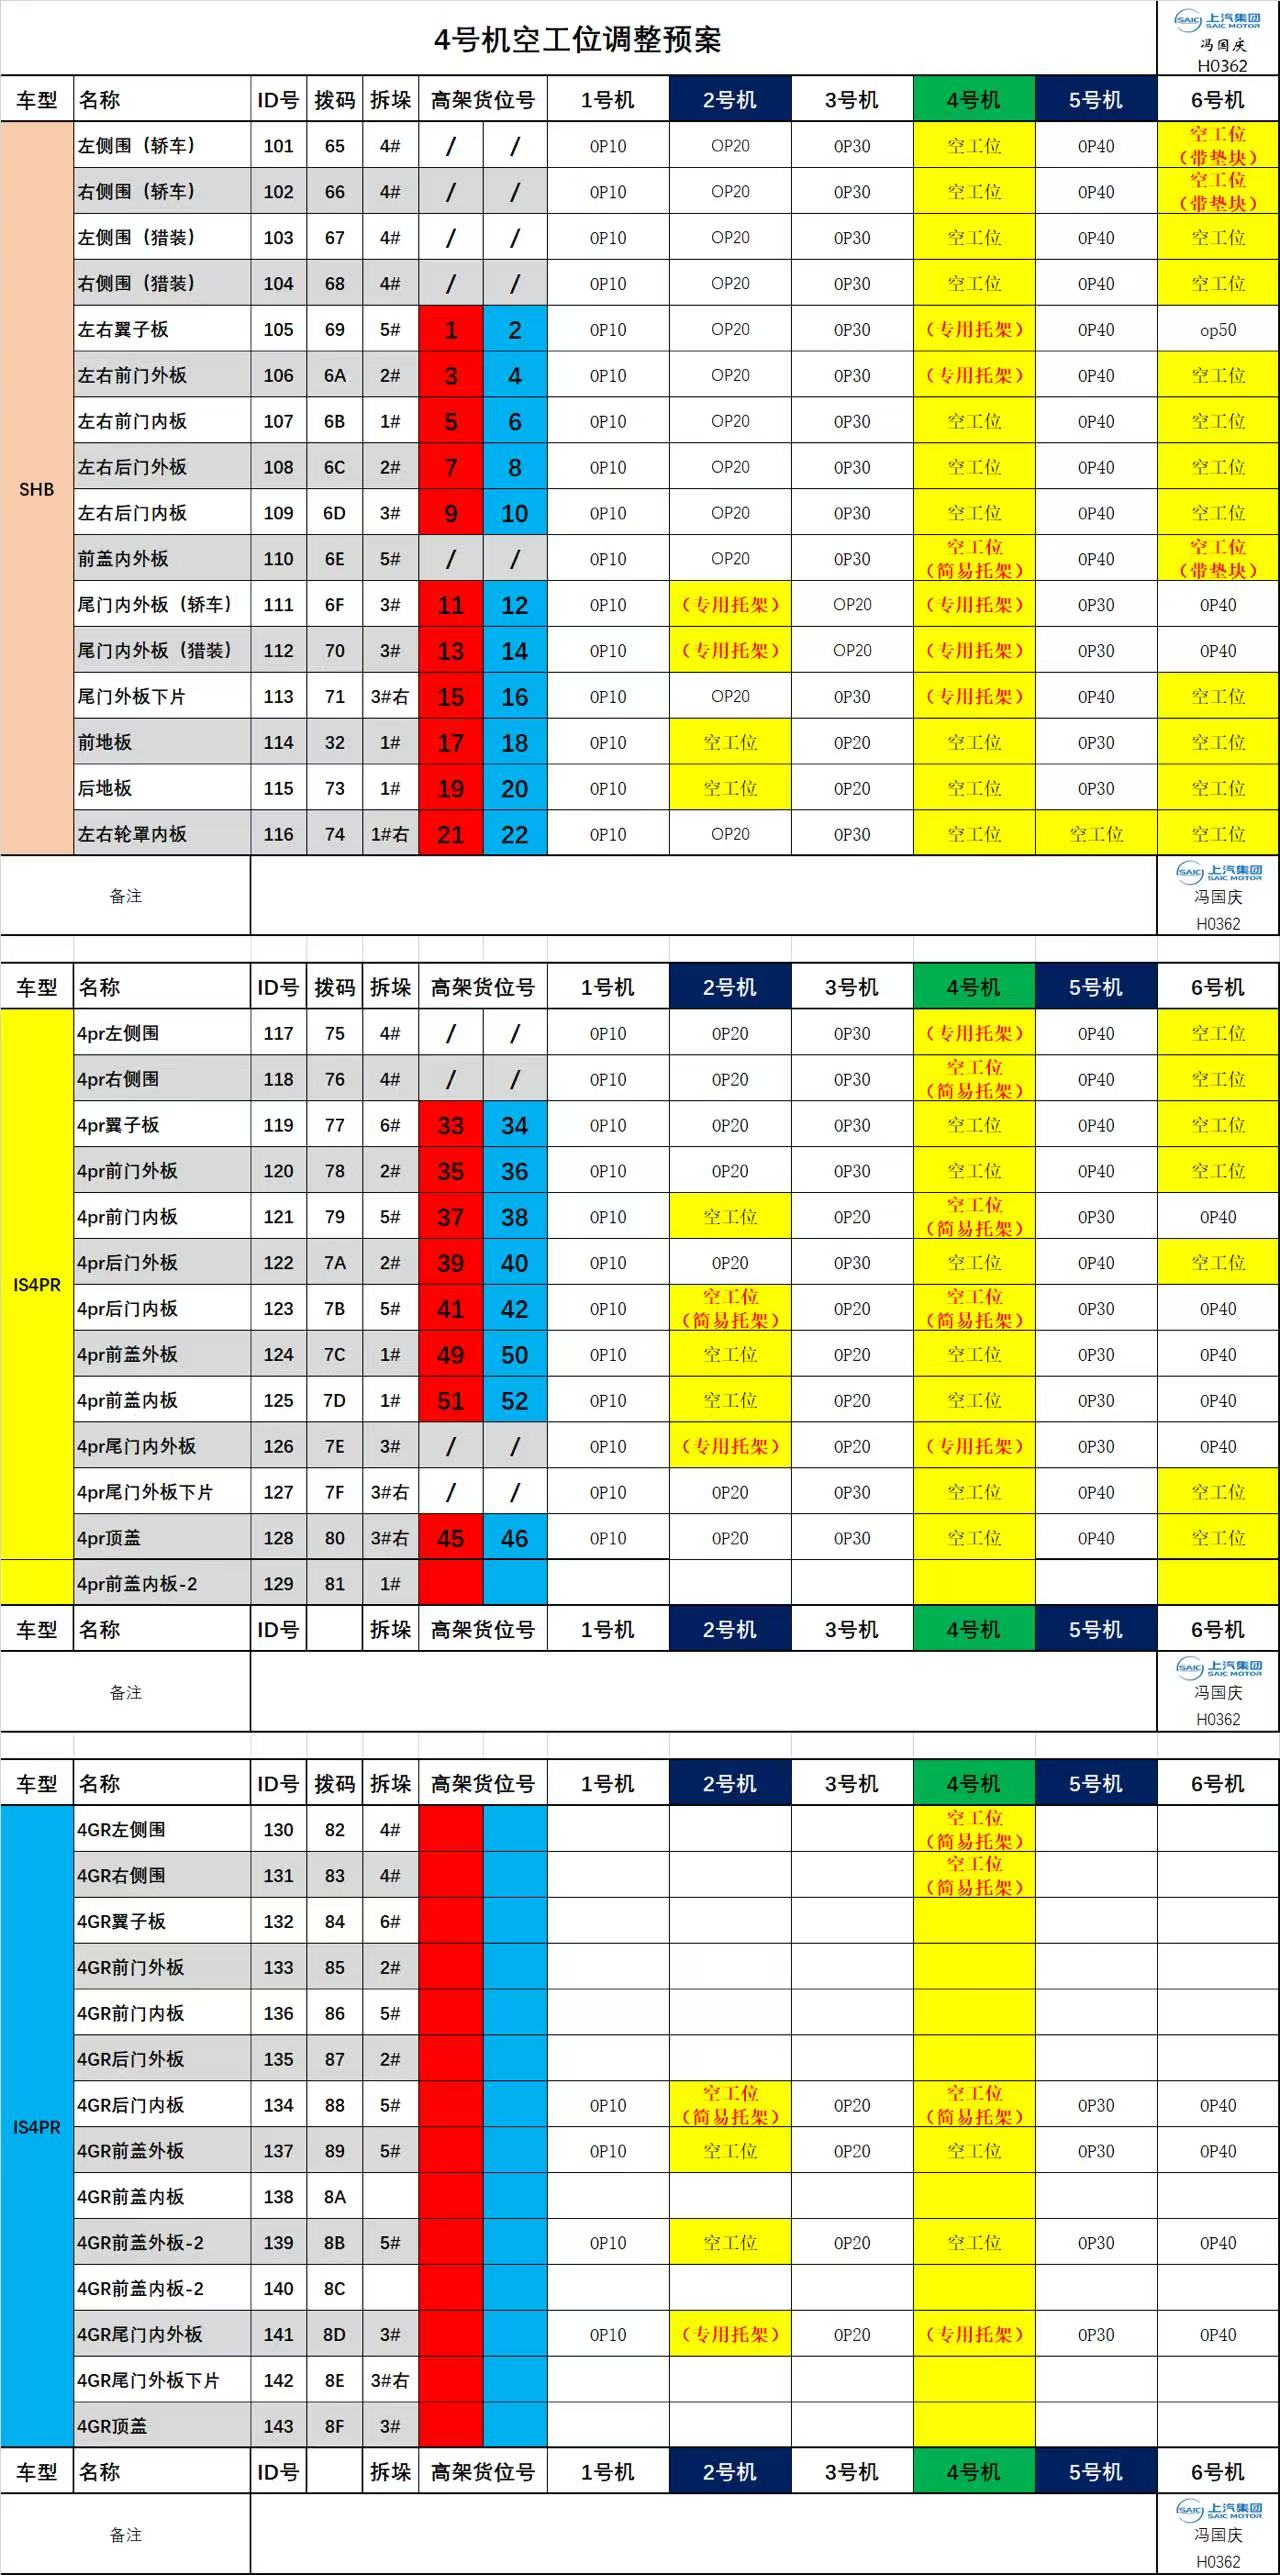
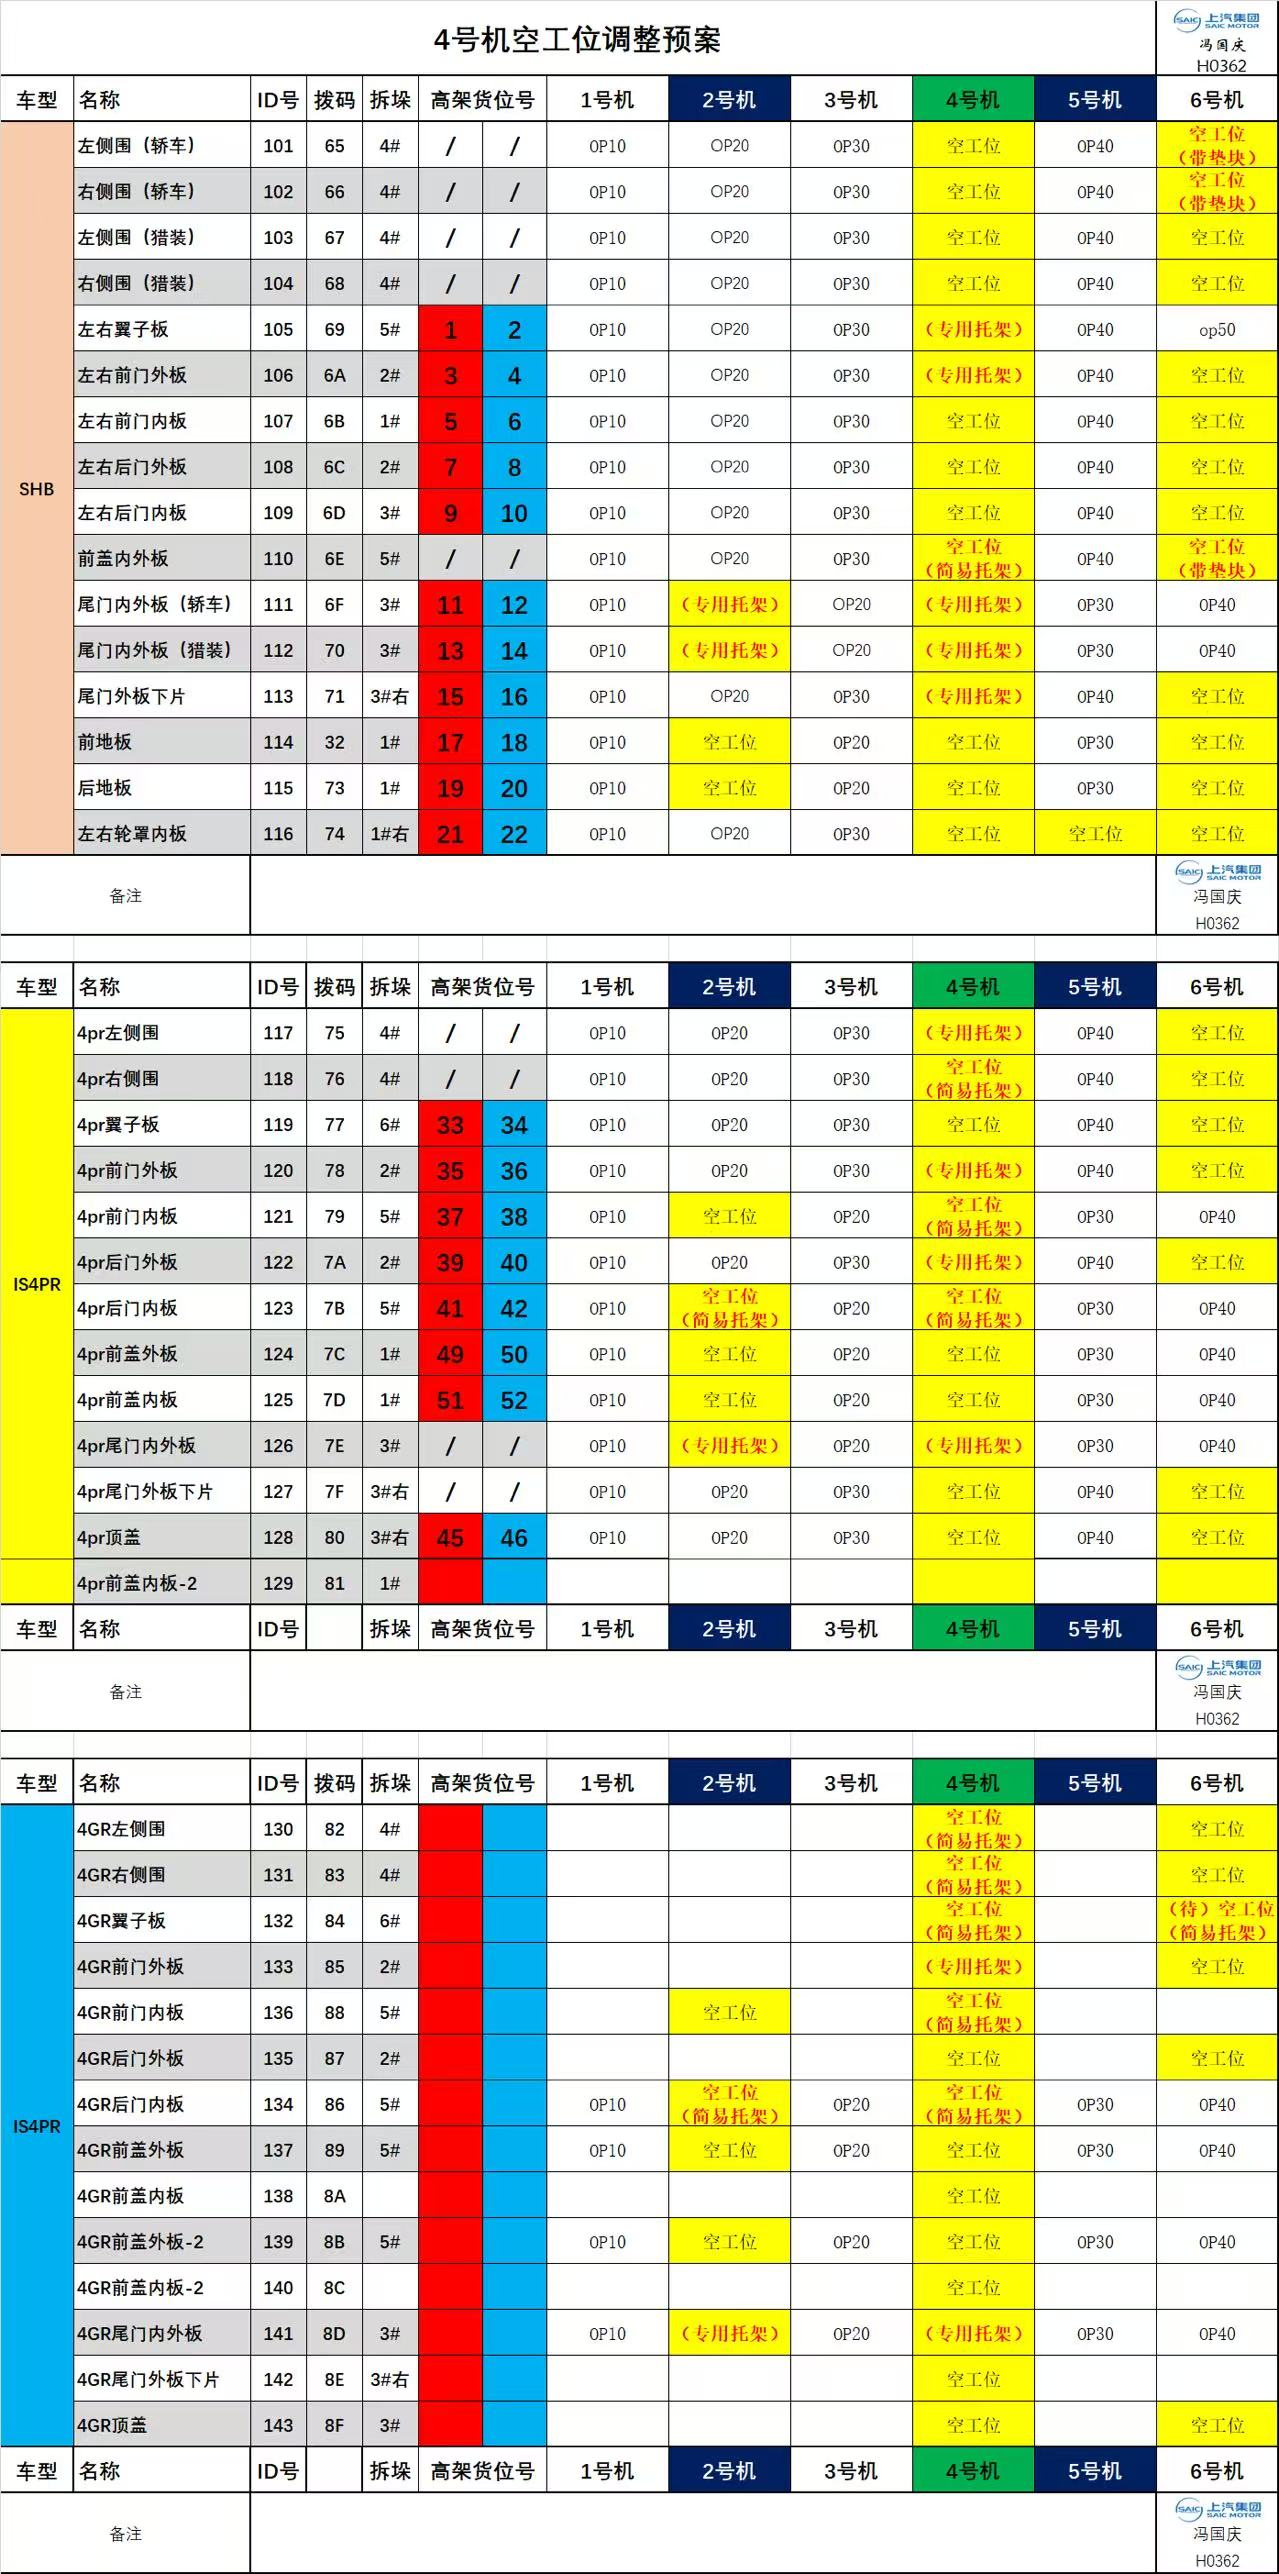
update site content

diff --git a/stations.html b/stations.html
@@ -74,8 +74,8 @@
   <h2><span class="n">21</span>预案原表</h2>
   <p class="sub">点图全屏放大；手机上双指缩放看每格小字。表就是标准，本页只做展示与放大，不改字。</p>
   <div class="sheet"><img id="sheet" src="media/stations/chart.jpg" alt="4号机空工位调整预案"></div>
-  <p class="hint">共 496 KB · 点开看全尺寸原图</p>
-  <p style="text-align:center;margin-top:10px"><a href="media/stations/chart_full.jpg" download>下载原尺寸图片（496 KB）</a></p>
+  <p class="hint">共 508 KB · 点开看全尺寸原图</p>
+  <p style="text-align:center;margin-top:10px"><a href="media/stations/chart_full.jpg" download>下载原尺寸图片（508 KB）</a></p>
 </section>
 
 <div id="lb"><div class="bar"><span>4号机空工位调整预案</span><span><a href="media/stations/chart_full.jpg" download style="color:#fff;font-size:13px">下载</a><button id="closelb">关闭</button></span></div><img src="media/stations/chart_full.jpg" alt=""></div>
